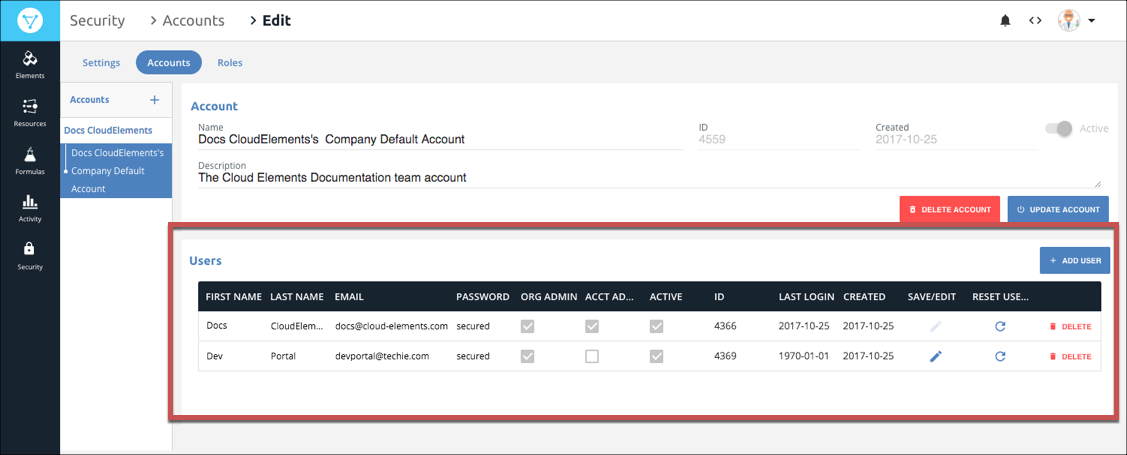
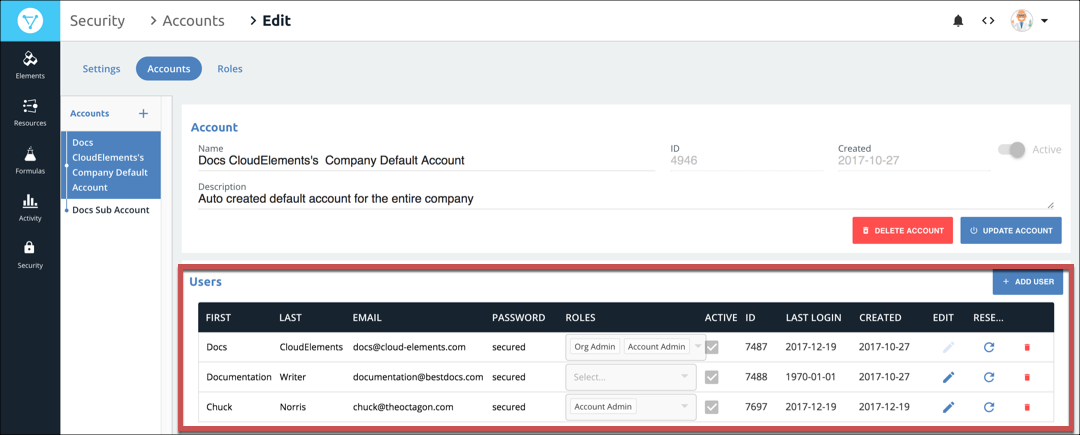
Updated RBAC content

diff --git a/_includes/contentToggle.html b/_includes/contentToggle.html
@@ -1,7 +1,8 @@
+<script src="/assets/js/application.js"></script>
 <link href="/assets/css/contentToggle.css" rel="stylesheet">
 {% if page.restContentVersion != null%}
   <div class="toggleButtonWrapper">
-    <a class="button leftButton active"> 
+    <a class="button leftButton active">
       UI
     </a>
     <a class="button rightButton" href={{page.restContentVersion}}>
@@ -11,7 +12,7 @@
 {% endif %}
 {% if page.uiContentVersion != null%}
   <div class="toggleButtonWrapper">
-    <a class="button leftButton" href={{page.uiContentVersion}}> 
+    <a class="button leftButton" href={{page.uiContentVersion}}>
       UI
     </a>
     <a class="button rightButton active">

diff --git a/_layouts/sidebarleft.html b/_layouts/sidebarleft.html
@@ -48,11 +48,11 @@
               $('.box{{page.box_number}}').addClass('active');
           });
       </script>
-
       {% endif %}
 
       {{content}}
     </div>
+
   </div>
   <script src="/assets/js/chart.js"></script>
   <script src="/assets/js/tablesorter.min.js"></script>

diff --git a/assets/css/contentToggle.css b/assets/css/contentToggle.css
@@ -36,3 +36,13 @@
 .active:hover {
   color: WHITE;
 }
+
+/*////////////////////////////////////////////
+/// For definitions  ///
+///////////////////////////////////////////*/
+
+a[data-toggle="tooltip"] {
+    color: #40b6e4;
+    font-style: italic;
+    cursor: default;
+}

diff --git a/_includes/account-user/roles.md b/_includes/account-user/roles.md
@@ -1,10 +1,8 @@
-User roles define the information a specific user can view and what they can do in Cloud Elements. When you create or update a user, you can assign specific roles to them. You can assign the Organization Administrator role to any user in the default account. You can assign the Account Administrator role to any user in any account. If you do not assign either administrator role you create a default user without any administrator capabilities.
-
-{% include note.html content="The Cloud Elements engineering team is working on enhancements to the current roles implementation. The Roles tab in Security is a placeholder to support future enhancements.  " %}
+User roles define the information that a specific user assigned to the role can view and what they can do in Cloud Elements. Each role includes a list of privileges that you can add or remove depending on how you want to manage roles in your organization.
 
 Cloud Elements supports the following roles:
 
 * Organization Administrator &mdash; The Organization Administrator can manage all aspects of security; create elements, formula templates, and common resources for the organization;  and can access all logs in Activity.
 * Account Administrator &mdash; The Organization Administrator performs the same function of the Organization Administrator, but only on the account where they are the administrator. Account Administrator cannot create or manage accounts or set security rules.
-
-{% include note.html content="Organization Users are non-administrator users in the default company account. Users with the Organization User have no different privileges than other default users. The Organization User role is being evaluated as a part of future enhancements and we do not recommend assigning it to specific users.  " %}
+* Default User &mdash; A non-administrator role for users in non-default accounts.
+* Organization User &mdash; non-administrator users in the default company account. Users with the Organization User have no different privileges than other default users.

diff --git a/_includes/account-user/add-users.md b/_includes/account-user/add-users.md
@@ -1,4 +1,4 @@
-As the organization-level user, you can add users to any accounts that you create.
+As the organization-level user, you can add users to any accounts that you create. When you create or update a user, you can assign specific roles to them. You can assign the Organization Administrator role to any user in the default account, but not to users outside of the default account. See [Manage Roles](roles.html) for more about roles and privileges.
 
 To create a user for an account:
 
@@ -6,10 +6,7 @@ To create a user for an account:
 2. In the **Users** section click **Add User**.
 3. Complete the **First Name**, **Last Name** and **Email** fields.
 4. Complete the **Password** field with a password that meets the [password policy](security-settings.html#configure-passwords) you configured on the Settings tab.
-5. If you want the user to be an organization or account administrator, select **Org Admin** or **Account Admin**. Otherwise continue to the next step. See [User Roles](user-management.html#user-roles) for more information about what each role can access.
-
-    {% include note.html content="You can assign the Organization Administrator roll only to users in the default company account. If you assign a user the Organization Administrator roll, you do not need to assign the Account Administrator roll also.  " %}
-
+5. If you want the user to be an organization or account administrator, select **Org Admin** or **Account Admin**. If you do not select either administrator role, the user receives a default role. See [Manage Roles](roles.html) for more information about what each role can access.
 4. Click <img src="img/btn-save.png" alt="Save" class="inlineImage">.
 
 After you create a user, they do not receive any notification. This is because many users do not need to access Cloud Elements directly. If the new user needs to access Cloud Elements, either give them the password that you entered or encourage them to reset their password.

diff --git a/docs/guides/account-user-mgmt/user-management.md b/docs/guides/account-user-mgmt/user-management.md
@@ -12,7 +12,6 @@ parent: Back to Guides
 order: 20
 redirect_from:
   - /docs/platform/accounts/account-management.html
-Instructions: # To add the Roles table: From the Skeletor project, SecurityRoles.jsx file, copy the <StyledTable>. In this file, change the <StyledTable> to <table>. Find and replace <StyledCheckbox checked disabled /> with {% icon fa-check-square-o %}. Find and replace <StyledCheckbox checked={false} disabled /> with {% icon fa-square-o %}.
 ValeOn: <!-- vale on -->
 ---
 
@@ -20,7 +19,7 @@ ValeOn: <!-- vale on -->
 
 As the organization administrator you can manage the users related to the accounts in your organization. You can create, retrieve, update, delete, and search users. To manage users, you must log in as the organization administrator. Even a user that you add to the default account cannot access the account management pages unless they are designated an organization administrator.
 
-{% include callout.html content="<strong>On this page</strong></br><a href=#access-user-management>Access User Management</a></br><a href=#user-roles>User Roles</a></br><a href=#update-user-roles-and-information>Update User Roles and Information</a></br><a href=#deactivate-and-reactivate-a-user>Deactivate and Reactivate a User</a></br><a href=#delete-a-user>Delete a User</a>" type="info" %}
+{% include callout.html content="<strong>On this page</strong></br><a href=#access-user-management>Access User Management</a></br><a href=#add-a-user>Add a User</a></br><a href=#update-user-roles-and-information>Update User Roles and Information</a><a href=#deactivate-and-reactivate-a-user>Deactivate and Reactivate a User</a></br><a href=#delete-a-user>Delete a User</a>" type="info" %}
 
 ## Access User Management
 
@@ -33,10 +32,6 @@ To see the users associated with an account:
 
 The users associated with an account appear in the User section.
 ![Users](img/users.png)
-
-## User Roles
-
-{% include account-user/roles.md%}
 
 ## Add a User
 

diff --git a/docs/guides/account-user-mgmt/user-managementAPI.md b/docs/guides/account-user-mgmt/user-managementAPI.md
@@ -19,7 +19,7 @@ ValeOn: <!-- vale on -->
 
 Organization administrators can manage the users related all accounts in your organization, while account administrators can manage users in specific accounts with the `/users` endpoint. You can create, retrieve, update, delete, and search users. To manage users, you must include a valid Organization Secret and the User Secret of an organization administrator in the header of any API requests to `/user`. If any requests come from someone else, even a user that you add to the default account, they will receive a `401 Unauthorized` error code.
 
-{% include callout.html content="<strong>On this page</strong></br><a href=#get-all-users>Get All Users</a></br><a href=#user-roles>User Roles</a><a href=#add-a-user>Add a User</a></br><a href=#get-a-specific-user>Get a Specific User</a></br><a href=#assign-a-role>Assign a Role</a></br><a href=#remove-a-role>Remove a Role</a></br><a href=#update-a-user>Update a User</a></br><a href=#deactivate-and-reactivate-a-user>Deactivate and Reactivate a User</a></br><a href=#delete-a-user>Delete a User</a>" type="info" %}
+{% include callout.html content="<strong>On this page</strong></br><a href=#get-all-users>Get All Users</a></br><a href=#add-a-user>Add a User</a></br><a href=#get-a-specific-user>Get a Specific User</a></br><a href=#assign-a-role>Assign a Role</a></br><a href=#remove-a-role>Remove a Role</a></br><a href=#update-a-user>Update a User</a></br><a href=#deactivate-and-reactivate-a-user>Deactivate and Reactivate a User</a></br><a href=#delete-a-user>Delete a User</a>" type="info" %}
 
 ## Get All Users
 
@@ -126,12 +126,6 @@ The following user attributes are deprecated and you can ignore them:
 * `credentialsNonExpired`
 * `accountNonExpired`
 * `enabled`
-
-## User Roles
-
-{% include account-user/roles.md%}
-
-See [Assign a Role](#assign-a-role) for steps to add roles to your users.
 
 ## Add a User
 

diff --git a/docs/guides/account-user-mgmt/roles.md b/docs/guides/account-user-mgmt/roles.md
@@ -1,0 +1,31 @@
+---
+valeOff: <!-- vale off -->
+heading: Manage Accounts and Users
+seo: Account APIs Overview | Cloud Elements API Docs
+title: Manage Roles
+description: Find API documentation, account management guides, and more on all of the currently supported Account APIs.
+layout: sidebarleft
+# restContentVersion: rolesAPI.html
+platform: accounts
+breadcrumbs: /docs/guides/home.html
+parent: Back to Guides
+order: 30
+redirect_from:
+  - /docs/platform/accounts/account-management.html
+ValeOn: <!-- vale on -->
+---
+
+# Manage Roles
+
+{% include account-user/roles.md%}
+
+## Update Permissions Assigned to Roles
+
+You can customize the permissions assigned to the Cloud Elements roles. You can grant access to new permissions or remove access from existing permissions.
+
+To update permissions assigned to roles:
+
+1. Click <img src="img/btn-security.png" alt="Security" class="inlineImage"> to open the the Security Settings page.
+2. Click the **Roles** tab.
+2. Click the check boxes to assign or remove permissions.
+3. Scroll down and click **Update Roles**.

diff --git a/docs/guides/account-user-mgmt/index.md b/docs/guides/account-user-mgmt/index.md
@@ -29,7 +29,10 @@ When creating transformations, any transformation created at the Organization le
 
 ## Security
 
-The organization administrator is the only user with access to the security section of Cloud Elements. In the Security section, an organization administrator can [manage security settings](security-settings.html) like the password policy and two-factor authentication. The Security section also includes [account](account-management.html) and [user](user-management.html) management.
+The organization administrator is the only user with access to the security section of Cloud Elements. In the Security section, an organization administrator can:
+* [Manage security settings](security-settings.html) like the password policy and two-factor authentication.
+* Add, update, and delete [Accounts](account-management.html) and [users](user-management.html).
+* Manage the [privileges assigned to roles](roles.html) in Cloud Elements.
 
 ## Definitions
 

diff --git a/docs/guides/account-user-mgmt/account-management.md b/docs/guides/account-user-mgmt/account-management.md
@@ -34,14 +34,14 @@ Each account includes attributes that you can use to identify the account or int
 
 ## Add an Account
 
-As an organization administrator, you can add an account to your organization.
+As an organization administrator, you can add an account to your organization. Accounts typically represent your customer.
 
 To add an account:
 
 1. Click <img src="img/btn-security.png" alt="Security" class="inlineImage"> to open the the Security Settings page.
 2. Click the **Accounts** tab.
 3. Click the add accounts button.
-![Add Accounts](img/)
+![Add Accounts](img/Create_New_Account.png)
 2. Enter a name for the account, and then click **Create**.
 3. Update the description to provide more information about the account.
 
